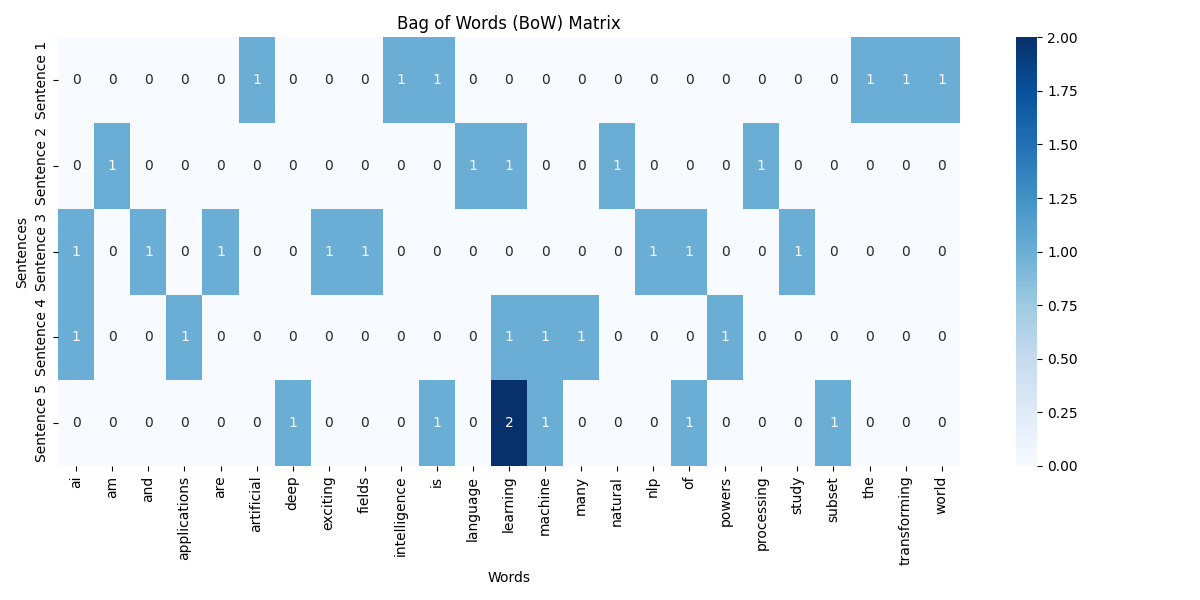
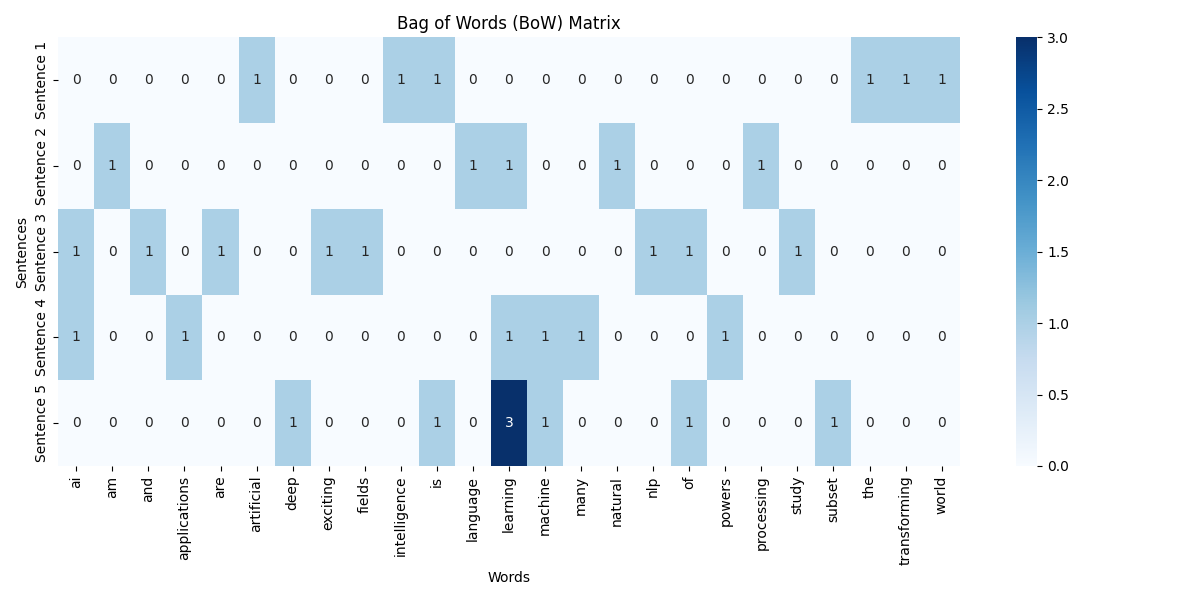
Add Lesson 6: Traditional Text Representations (BoW & TF-IDF)

diff --git a/src/lesson_6_traditional_vectorization.py b/src/lesson_6_traditional_vectorization.py
@@ -9,7 +9,7 @@ corpus = [
     "I am learning Natural Language Processing",
     "AI and NLP are exciting fields of study",
     "Machine learning powers many AI applications",
-    "Deep learning is a subset of machine learning"
+    "Deep learning is a subset of machine learning learning"
 ]
 
 # Create vectorizers
